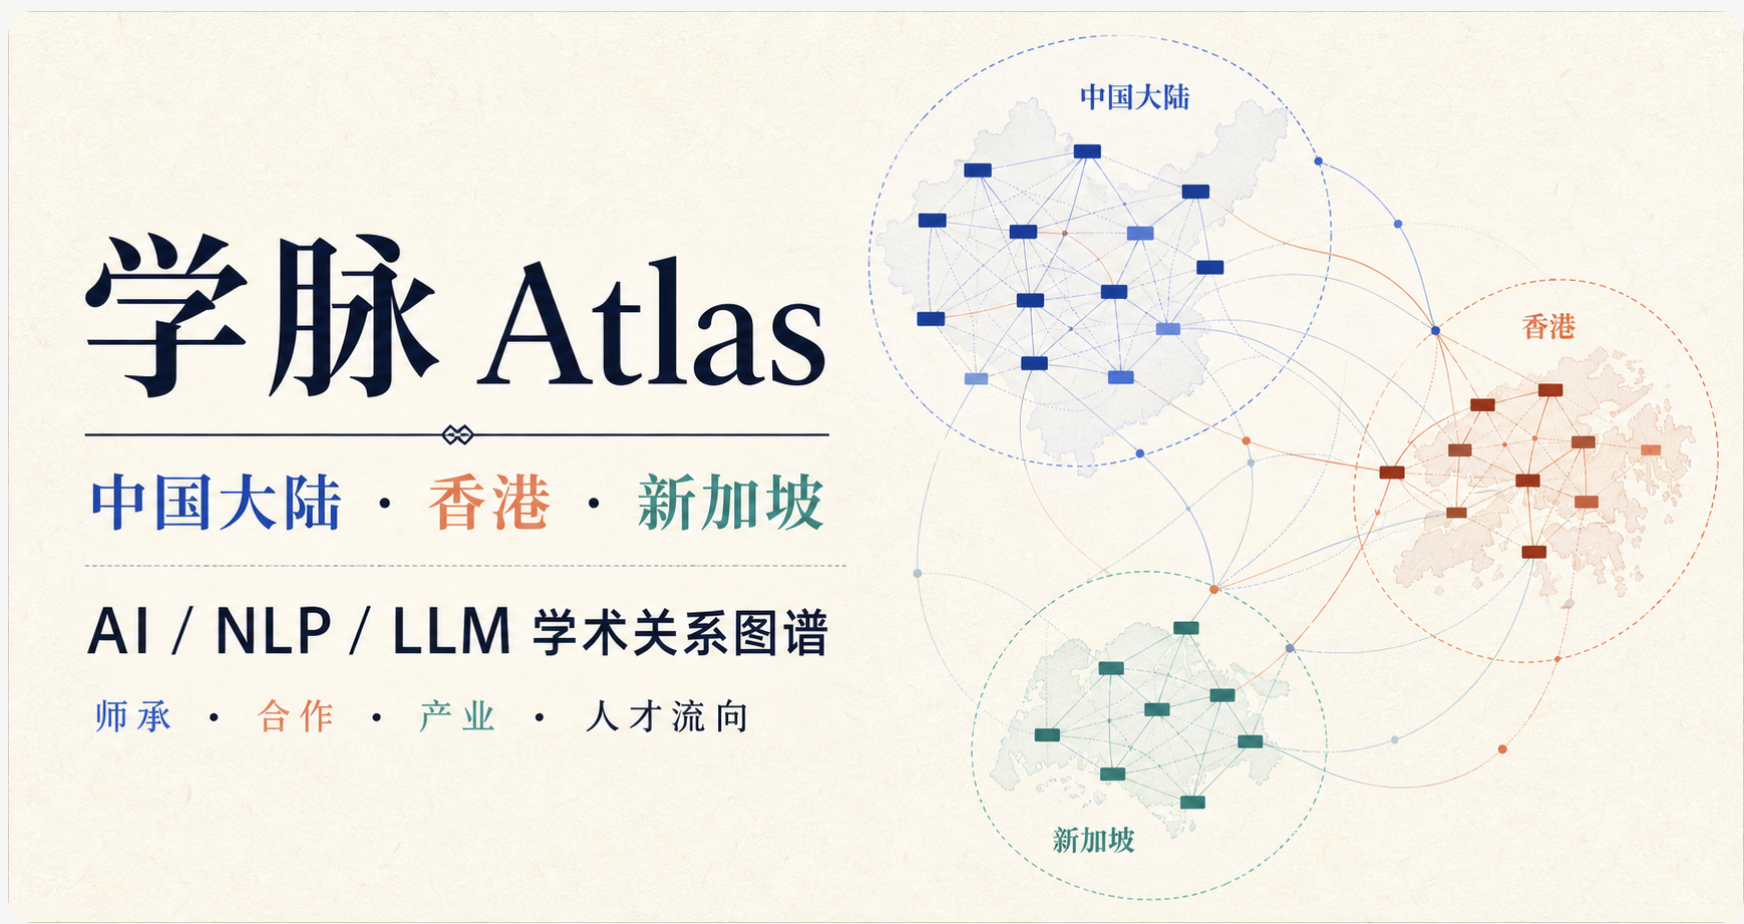
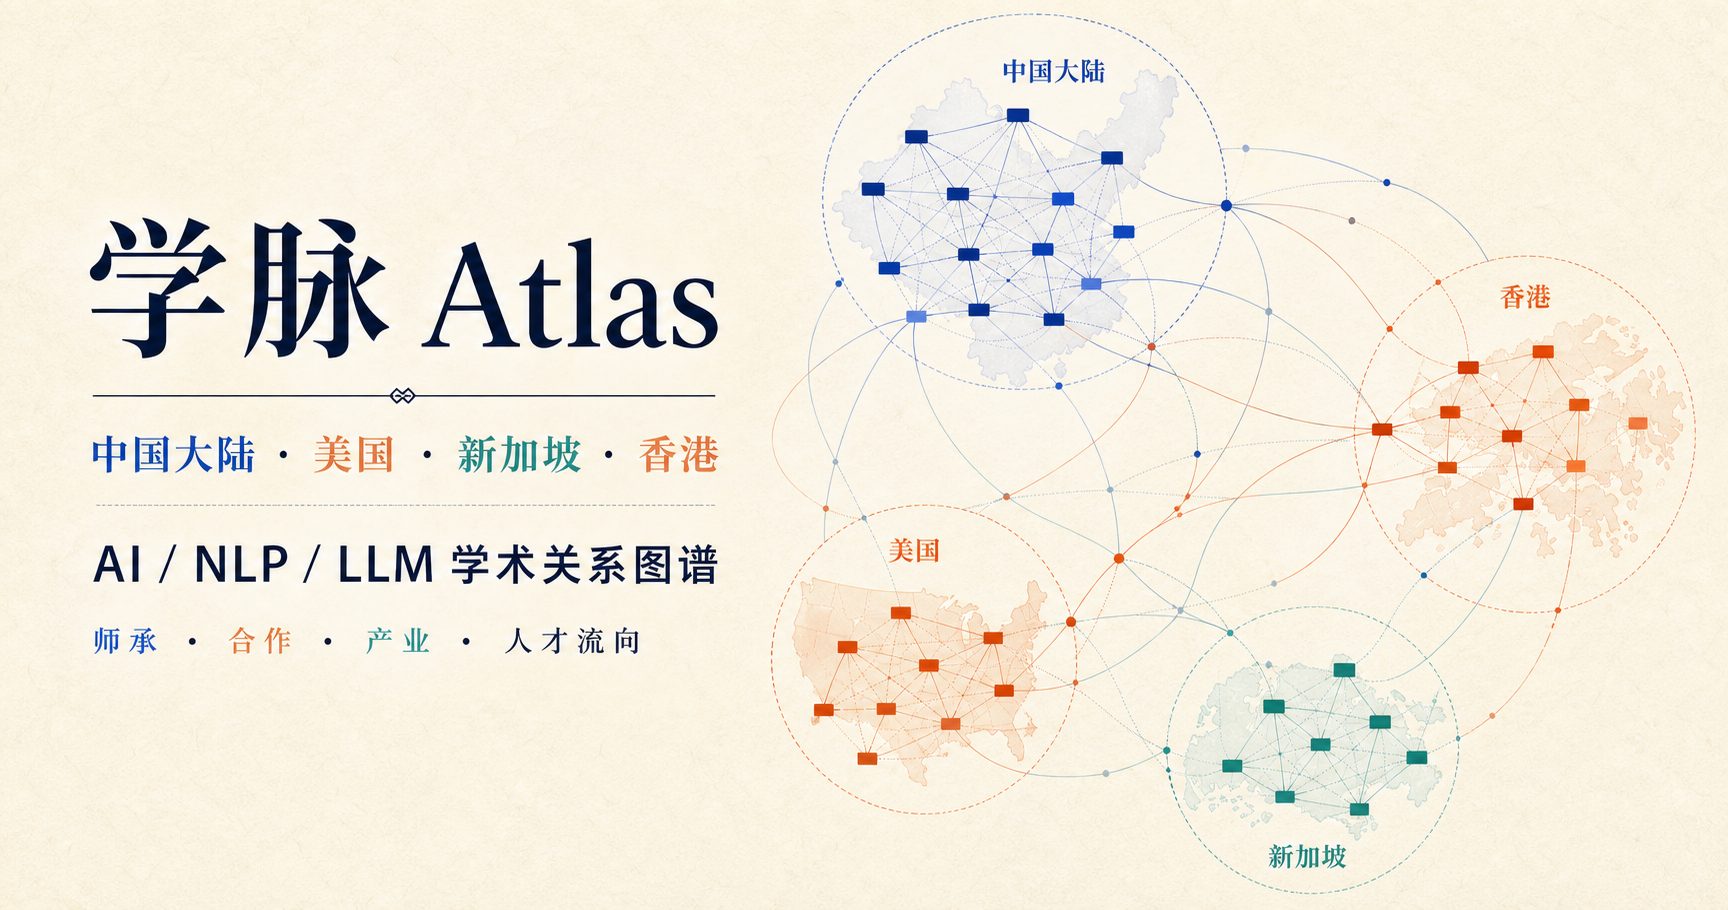
Blend academic atlas artwork into homepage

diff --git a/app/globals.css b/app/globals.css
@@ -52,13 +52,13 @@ button { color: inherit; }
 .status-pill i { display: inline-block; width: 7px; height: 7px; background: var(--teal); border-radius: 50%; margin-right: 7px; box-shadow: 0 0 0 3px rgba(7,163,131,.12); }
 
 .hero {
-  max-width: 1480px;
+  max-width: none;
   margin: 0 auto;
-  padding: 30px 48px 42px;
+  padding: 0 48px 42px;
 }
-.hero-visual { display: block; width: 100%; overflow: hidden; border: 1px solid #d9d6cb; border-radius: 18px; background: #f7f3e9; box-shadow: 0 22px 60px rgba(38,55,75,.09); line-height: 0; }
+.hero-visual { display: block; width: min(1728px, calc(100vw - 96px)); margin: 0 auto; overflow: hidden; background: #f7f1e5; line-height: 0; }
 .hero-visual img { display: block; width: 100%; height: auto; }
-.hero-utility { display: grid; grid-template-columns: auto minmax(260px, 1fr) auto; gap: 24px; align-items: center; margin-top: 16px; padding: 13px 16px; border: 1px solid #d7ded4; border-radius: 12px; background: rgba(255,255,255,.78); box-shadow: 0 10px 28px rgba(38,55,75,.05); }
+.hero-utility { max-width: 1384px; display: grid; grid-template-columns: auto minmax(260px, 1fr) auto; gap: 24px; align-items: center; margin: 16px auto 0; padding: 13px 16px; border-top: 1px solid #d7ded4; border-bottom: 1px solid #d7ded4; background: rgba(255,255,255,.48); }
 .region-switch { width: max-content; display: flex; gap: 4px; margin: 0; padding: 4px; border: 1px solid #cdd6ca; border-radius: 999px; background: rgba(255,255,255,.82); }
 .region-switch button { min-width: 108px; padding: 8px 14px; border: 0; border-radius: 999px; background: transparent; color: #657386; cursor: pointer; font-size: 12px; font-weight: 800; }
 .region-switch button small { display: block; margin-top: 1px; color: #8995a4; font: 600 7px var(--font-space), sans-serif; letter-spacing: .08em; text-transform: uppercase; }
@@ -387,7 +387,8 @@ footer > a { font-size: 10px; border-bottom: 1px solid #65748a; padding-bottom: 
 @media (max-width: 1040px) {
   .topbar { padding: 0 24px; grid-template-columns: 1fr auto; }
   .topbar nav { display: none; }
-  .hero { padding: 24px 24px 36px; }
+  .hero { padding: 0 24px 36px; }
+  .hero-visual { width: calc(100vw - 48px); }
   .hero-utility { grid-template-columns: 1fr auto; }
   .region-switch { grid-column: 1 / -1; }
   .hero-summary { justify-self: start; }
@@ -405,9 +406,9 @@ footer > a { font-size: 10px; border-bottom: 1px solid #65748a; padding-bottom: 
 @media (max-width: 760px) {
   .topbar { height: 66px; padding: 0 18px; }
   .status-pill { font-size: 8px; padding: 7px 9px; }
-  .hero { padding: 16px 12px 36px; }
-  .hero-visual { border-radius: 12px; }
-  .hero-utility { display: block; padding: 12px; }
+  .hero { padding: 0 12px 36px; }
+  .hero-visual { width: calc(100vw - 24px); }
+  .hero-utility { display: block; margin-top: 10px; padding: 12px 0; }
   .region-switch { width: 100%; overflow-x: auto; }
   .region-switch button { min-width: 94px; padding: 8px 10px; }
   .hero-summary { margin: 12px 0 16px; }

diff --git a/app/layout.tsx b/app/layout.tsx
@@ -17,7 +17,7 @@ const title = "学脉 Atlas — AI / NLP 学术关系图谱";
 const description = "探索中国大陆、香港、新加坡与美国 AI、NLP、LLM 学者的师承、合作、研究群落与人才流向。关系与职业信息均附可追溯来源。";
 const siteUrl = new URL("https://mizar77.github.io/xuemai-atlas/");
 const faviconUrl = new URL("favicon.svg", siteUrl).toString();
-const socialImageUrl = new URL("og-mainland.png", siteUrl).toString();
+const socialImageUrl = new URL("og.png", siteUrl).toString();
 
 export const metadata: Metadata = {
   metadataBase: siteUrl,
@@ -30,7 +30,7 @@ export const metadata: Metadata = {
     type: "website",
     locale: "zh_CN",
     url: siteUrl,
-    images: [{ url: socialImageUrl, width: 1200, height: 630, alt: "学脉 Atlas — 中国大陆、香港、新加坡与美国 AI / NLP 学术关系图谱" }],
+    images: [{ url: socialImageUrl, width: 1728, height: 910, alt: "学脉 Atlas — 中国大陆、香港、新加坡与美国 AI / NLP 学术关系图谱" }],
   },
   twitter: { card: "summary_large_image", title, description, images: [socialImageUrl] },
 };
